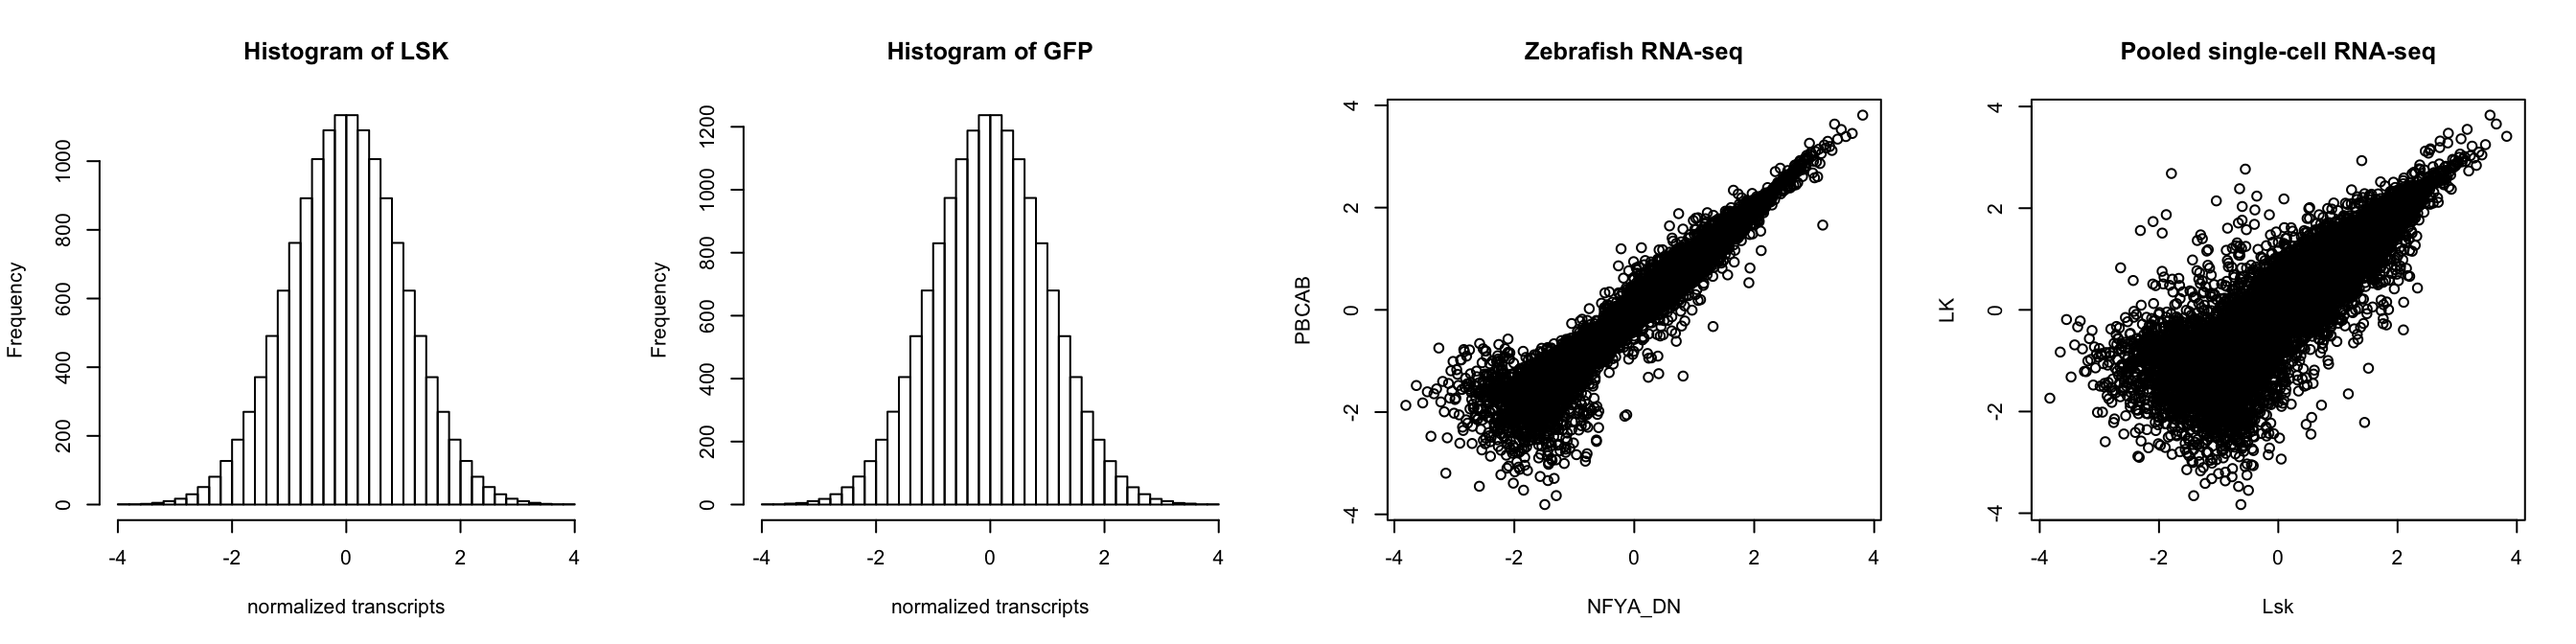
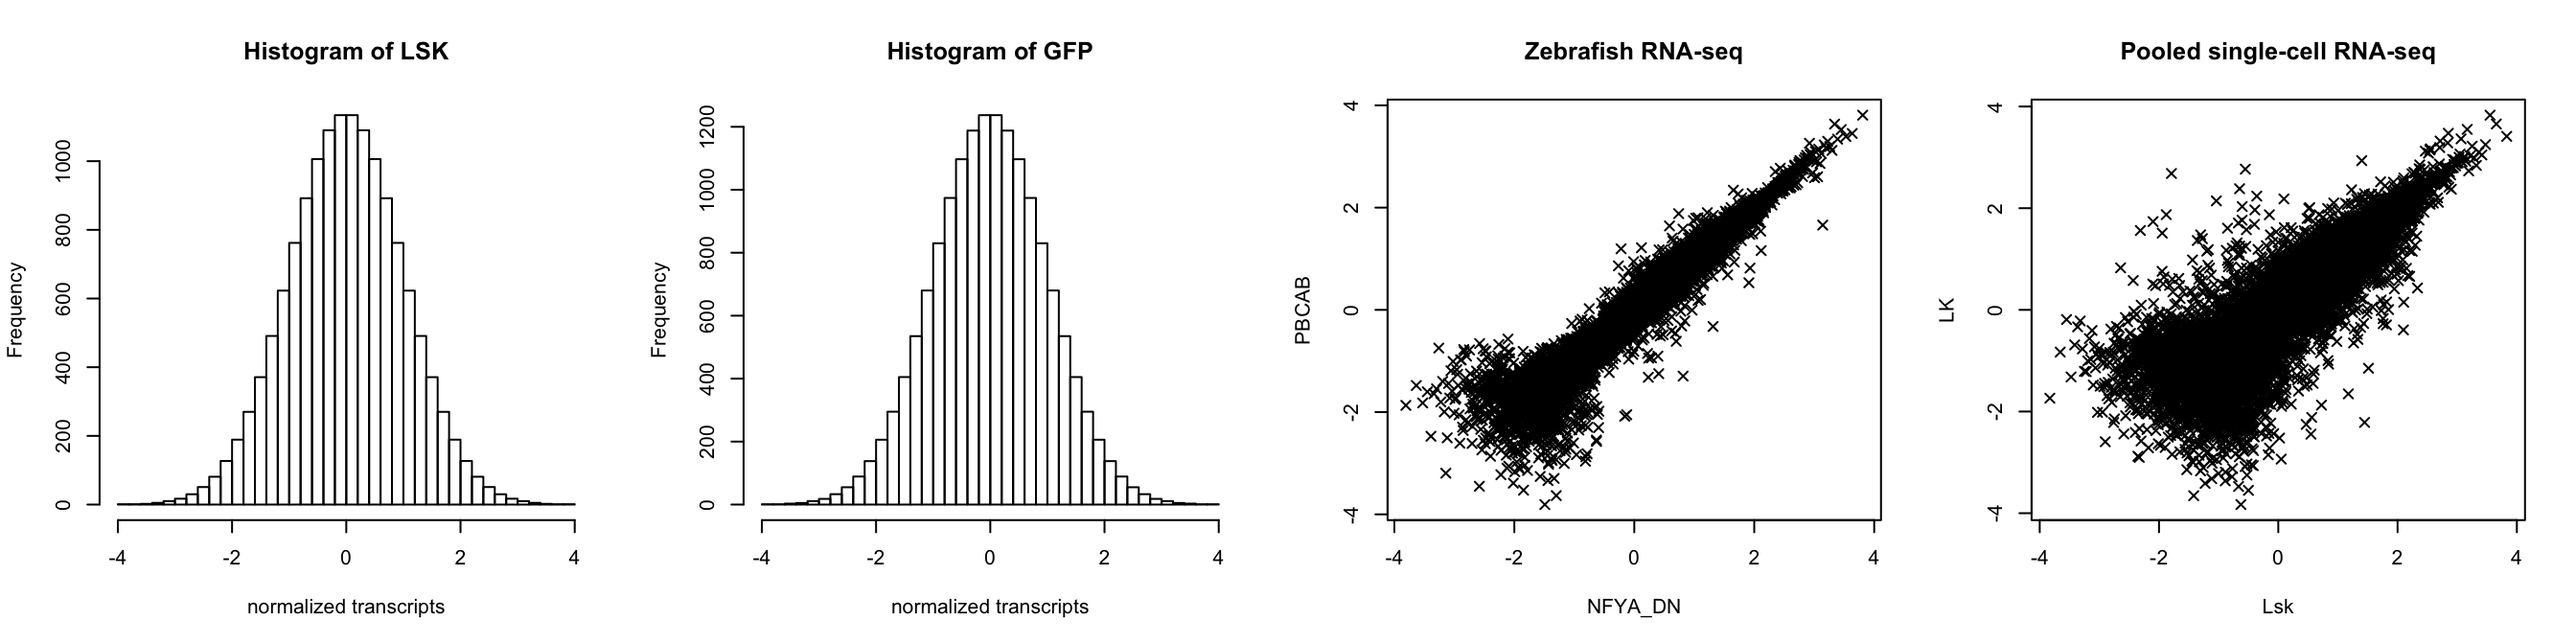
fix plots on preprocessing slide

diff --git a/docs/preprocessing.html b/docs/preprocessing.html
@@ -406,7 +406,7 @@ $(document).ready(function () {
 <div class="tab-content">
 <div id="summary" class="tab-pane fade in active">
 <p>
-<strong>Last updated:</strong> 2020-05-02
+<strong>Last updated:</strong> 2020-05-03
 </p>
 <p>
 <strong>Checks:</strong> <span class="glyphicon glyphicon-ok text-success" aria-hidden="true"></span> 4 <span class="glyphicon glyphicon-exclamation-sign text-danger" aria-hidden="true"></span> 3
@@ -506,16 +506,16 @@ unnamed-chunk-11
 <div class="panel panel-default">
 <div class="panel-heading">
 <p class="panel-title">
-<a data-toggle="collapse" data-parent="#workflowr-checks" href="#strongRepositoryversionstrongahrefhttpsgithubcomhillarykochclimbpagetreee4e50bd43dbfdd59b49c561e781b414560154494targetblanke4e50bda"> <span class="glyphicon glyphicon-ok text-success" aria-hidden="true"></span> <strong>Repository version:</strong> <a href="https://github.com/hillarykoch/climb_page/tree/e4e50bd43dbfdd59b49c561e781b414560154494" target="_blank">e4e50bd</a> </a>
+<a data-toggle="collapse" data-parent="#workflowr-checks" href="#strongRepositoryversionstrongahrefhttpsgithubcomhillarykochclimbpagetree41ecdb67ed5cfe173b5a641f89d3749ce80e3fbbtargetblank41ecdb6a"> <span class="glyphicon glyphicon-ok text-success" aria-hidden="true"></span> <strong>Repository version:</strong> <a href="https://github.com/hillarykoch/climb_page/tree/41ecdb67ed5cfe173b5a641f89d3749ce80e3fbb" target="_blank">41ecdb6</a> </a>
 </p>
 </div>
[2 lines of base64/hex data omitted]
 <div class="panel-body">
 <p>
 Great! You are using Git for version control. Tracking code development and connecting the code version to the results is critical for reproducibility.
 </p>
 <p>
-The results in this page were generated with repository version <a href="https://github.com/hillarykoch/climb_page/tree/e4e50bd43dbfdd59b49c561e781b414560154494" target="_blank">e4e50bd</a>. See the <em>Past versions</em> tab to see a history of the changes made to the R Markdown and HTML files.
+The results in this page were generated with repository version <a href="https://github.com/hillarykoch/climb_page/tree/41ecdb67ed5cfe173b5a641f89d3749ce80e3fbb" target="_blank">41ecdb6</a>. See the <em>Past versions</em> tab to see a history of the changes made to the R Markdown and HTML files.
 </p>
 <p>
 Note that you need to be careful to ensure that all relevant files for the analysis have been committed to Git prior to generating the results (you can use <code>wflow_publish</code> or <code>wflow_git_commit</code>). workflowr only checks the R Markdown file, but you know if there are other scripts or data files that it depends on. Below is the status of the Git repository when the results were generated:
@@ -532,9 +532,6 @@ Ignored files:
     Ignored:    analysis/running_mcmc_cache/
     Ignored:    data/.DS_Store
     Ignored:    output/.DS_Store
-
-Untracked files:
-    Untracked:  data/tpm_zebrafish.tsv.gz
 
 Unstaged changes:
     Modified:   analysis/preprocessing.Rmd
@@ -576,6 +573,40 @@ Message
 </tr>
 </thead>
 <tbody>
+<tr>
+<td>
+Rmd
+</td>
+<td>
+<a href="https://github.com/hillarykoch/climb_page/blob/41ecdb67ed5cfe173b5a641f89d3749ce80e3fbb/analysis/preprocessing.Rmd" target="_blank">41ecdb6</a>
+</td>
+<td>
+hillarykoch
+</td>
+<td>
+2020-05-02
+</td>
+<td>
+update preprocessing with quantile transformation for RNA-seq
+</td>
+</tr>
+<tr>
+<td>
+html
+</td>
+<td>
+<a href="https://rawcdn.githack.com/hillarykoch/climb_page/41ecdb67ed5cfe173b5a641f89d3749ce80e3fbb/docs/preprocessing.html" target="_blank">41ecdb6</a>
+</td>
+<td>
+hillarykoch
+</td>
+<td>
+2020-05-02
+</td>
+<td>
+update preprocessing with quantile transformation for RNA-seq
+</td>
+</tr>
 <tr>
 <td>
 Rmd
@@ -779,6 +810,17 @@ Date
 <tbody>
 <tr>
 <td>
+<a href="https://github.com/hillarykoch/climb_page/blob/41ecdb67ed5cfe173b5a641f89d3749ce80e3fbb/docs/figure/preprocessing.Rmd/unnamed-chunk-3-1.png" target="_blank">41ecdb6</a>
+</td>
+<td>
+hillarykoch
+</td>
+<td>
+2020-05-02
+</td>
+</tr>
+<tr>
+<td>
 <a href="https://github.com/hillarykoch/climb_page/blob/828e725ac9ae66949f0c7821028faa80ae0242c5/docs/figure/preprocessing.Rmd/unnamed-chunk-3-1.png" target="_blank">828e725</a>
 </td>
 <td>
@@ -872,6 +914,43 @@ z &lt;-<span class="st"> </span>ql_dat -<span class="st"> </span>estimated_mode
 <span class="co"># Make a quick histogram of normalized expression from one condition</span>
 <span class="kw">hist</span>(z[,<span class="dv">1</span>], <span class="dt">breaks =</span> <span class="dv">30</span>, <span class="dt">xlab =</span> <span class="st">&quot;normalized transcripts&quot;</span>, <span class="dt">main =</span> <span class="st">&quot;Histogram of GFP&quot;</span>)</code></pre></div>
 <p><img src="figure/preprocessing.Rmd/unnamed-chunk-5-1.png" width="384" style="display: block; margin: auto;" /></p>
+<p>
+<button type="button" class="btn btn-default btn-xs btn-workflowr btn-workflowr-fig" data-toggle="collapse" data-target="#fig-unnamed-chunk-5-1">
+Past versions of unnamed-chunk-5-1.png
+</button>
+</p>
+<div id="fig-unnamed-chunk-5-1" class="collapse">
+<div class="table-responsive">
+<table class="table table-condensed table-hover">
+<thead>
+<tr>
+<th>
+Version
+</th>
+<th>
+Author
+</th>
+<th>
+Date
+</th>
+</tr>
+</thead>
+<tbody>
+<tr>
+<td>
+<a href="https://github.com/hillarykoch/climb_page/blob/41ecdb67ed5cfe173b5a641f89d3749ce80e3fbb/docs/figure/preprocessing.Rmd/unnamed-chunk-5-1.png" target="_blank">41ecdb6</a>
+</td>
+<td>
+hillarykoch
+</td>
+<td>
+2020-05-02
+</td>
+</tr>
+</tbody>
+</table>
+</div>
+</div>
 <p>As with the ChIP-seq, we filter out genes which are removed from the analysis, so that we know which genes we examined.</p>
 <p>While this data pre-processing strategy was suitable for the analyses in the CLIMB manuscript, it may not always be suitable for all RNA-seq. Here, we demonstrate another variation on this data pre-processing strategy. Here, we will pool single-cell experiments of hematopoietic progenitor cells, take from Olsson et al. 2016 (accession code GSE70245).</p>
 <p>After reading in the data, we see that there are 382 cells in total in the experiment, coming from 4 unique cell populations.</p>
@@ -964,6 +1043,17 @@ Date
 <tbody>
 <tr>
 <td>
+<a href="https://github.com/hillarykoch/climb_page/blob/41ecdb67ed5cfe173b5a641f89d3749ce80e3fbb/docs/figure/preprocessing.Rmd/unnamed-chunk-8-1.png" target="_blank">41ecdb6</a>
+</td>
+<td>
+hillarykoch
+</td>
+<td>
+2020-05-02
+</td>
+</tr>
+<tr>
+<td>
 <a href="https://github.com/hillarykoch/climb_page/blob/828e725ac9ae66949f0c7821028faa80ae0242c5/docs/figure/preprocessing.Rmd/unnamed-chunk-8-1.png" target="_blank">828e725</a>
 </td>
 <td>
@@ -1004,6 +1094,43 @@ z &lt;-<span class="st"> </span>ql_dat -<span class="st"> </span>flattening
 <span class="co"># Make a quick histogram and plot of normalized expression from one condition</span>
 <span class="kw">hist</span>(z[,<span class="dv">1</span>], <span class="dt">breaks =</span> <span class="dv">30</span>, <span class="dt">xlab =</span> <span class="st">&quot;normalized transcripts&quot;</span>, <span class="dt">main =</span> <span class="st">&quot;Histogram of LK, after shifting&quot;</span>)</code></pre></div>
 <p><img src="figure/preprocessing.Rmd/unnamed-chunk-9-1.png" width="384" style="display: block; margin: auto;" /></p>
+<p>
+<button type="button" class="btn btn-default btn-xs btn-workflowr btn-workflowr-fig" data-toggle="collapse" data-target="#fig-unnamed-chunk-9-1">
+Past versions of unnamed-chunk-9-1.png
+</button>
+</p>
+<div id="fig-unnamed-chunk-9-1" class="collapse">
+<div class="table-responsive">
+<table class="table table-condensed table-hover">
+<thead>
+<tr>
+<th>
+Version
+</th>
+<th>
+Author
+</th>
+<th>
+Date
+</th>
+</tr>
+</thead>
+<tbody>
+<tr>
+<td>
+<a href="https://github.com/hillarykoch/climb_page/blob/41ecdb67ed5cfe173b5a641f89d3749ce80e3fbb/docs/figure/preprocessing.Rmd/unnamed-chunk-9-1.png" target="_blank">41ecdb6</a>
+</td>
+<td>
+hillarykoch
+</td>
+<td>
+2020-05-02
+</td>
+</tr>
+</tbody>
+</table>
+</div>
+</div>
 <p>This transformation may be more widely applicable to RNA-seq datasets.</p>
 </div>
 <div id="by-quantile-transformation" class="section level4">
@@ -1025,9 +1152,46 @@ sc_z &lt;-<span class="st"> </span><span class="kw">apply</span>(sc_merge_dat, <
 <span class="kw">hist</span>(sc_z[,<span class="dv">1</span>], <span class="dt">breaks =</span> <span class="dv">35</span>, <span class="dt">xlab =</span> <span class="st">&quot;normalized transcripts&quot;</span>, <span class="dt">main =</span> <span class="st">&quot;Histogram of GFP&quot;</span>)
 
 <span class="co"># But the joint distributions look like mixtures</span>
-<span class="kw">plot</span>(z[,<span class="kw">c</span>(<span class="dv">2</span>,<span class="dv">3</span>)], <span class="dt">xlab =</span> <span class="kw">colnames</span>(z)[<span class="dv">2</span>], <span class="dt">ylab =</span> <span class="kw">colnames</span>(z)[<span class="dv">3</span>], <span class="dt">main =</span> <span class="st">&quot;Zebrafish RNA-seq&quot;</span>)
-<span class="kw">plot</span>(sc_z[,<span class="kw">c</span>(<span class="dv">1</span>,<span class="dv">4</span>)], <span class="dt">xlab =</span> <span class="kw">colnames</span>(sc_z)[<span class="dv">1</span>], <span class="dt">ylab =</span> <span class="kw">colnames</span>(sc_z)[<span class="dv">4</span>], <span class="dt">main =</span> <span class="st">&quot;Pooled single-cell RNA-seq&quot;</span>)</code></pre></div>
+<span class="kw">plot</span>(z[,<span class="kw">c</span>(<span class="dv">2</span>,<span class="dv">3</span>)], <span class="dt">xlab =</span> <span class="kw">colnames</span>(z)[<span class="dv">2</span>], <span class="dt">ylab =</span> <span class="kw">colnames</span>(z)[<span class="dv">3</span>], <span class="dt">main =</span> <span class="st">&quot;Zebrafish RNA-seq&quot;</span>, <span class="dt">pch =</span> <span class="dv">4</span>)
+<span class="kw">plot</span>(sc_z[,<span class="kw">c</span>(<span class="dv">1</span>,<span class="dv">4</span>)], <span class="dt">xlab =</span> <span class="kw">colnames</span>(sc_z)[<span class="dv">1</span>], <span class="dt">ylab =</span> <span class="kw">colnames</span>(sc_z)[<span class="dv">4</span>], <span class="dt">main =</span> <span class="st">&quot;Pooled single-cell RNA-seq&quot;</span>, <span class="dt">pch =</span> <span class="dv">4</span>)</code></pre></div>
 <p><img src="figure/preprocessing.Rmd/unnamed-chunk-10-1.png" width="1344" style="display: block; margin: auto;" /></p>
+<p>
+<button type="button" class="btn btn-default btn-xs btn-workflowr btn-workflowr-fig" data-toggle="collapse" data-target="#fig-unnamed-chunk-10-1">
+Past versions of unnamed-chunk-10-1.png
+</button>
+</p>
+<div id="fig-unnamed-chunk-10-1" class="collapse">
+<div class="table-responsive">
+<table class="table table-condensed table-hover">
+<thead>
+<tr>
+<th>
+Version
+</th>
+<th>
+Author
+</th>
+<th>
+Date
+</th>
+</tr>
+</thead>
+<tbody>
+<tr>
+<td>
+<a href="https://github.com/hillarykoch/climb_page/blob/41ecdb67ed5cfe173b5a641f89d3749ce80e3fbb/docs/figure/preprocessing.Rmd/unnamed-chunk-10-1.png" target="_blank">41ecdb6</a>
+</td>
+<td>
+hillarykoch
+</td>
+<td>
+2020-05-02
+</td>
+</tr>
+</tbody>
+</table>
+</div>
+</div>
 <p>Using the normalized ranks and standard normal quantile transformation may cause a sort of “compressing” of the data. This is because ranking the data obscured distances between various clusters in the mixture. Then, when applying the typical pairwise fitting step, the cluster estimation may be sub-optimal. To resolve this, we suggest placing a lower bound on the absolute value of the class means for dimensions associated with some signal (i.e., -1 or 1), while allowing more flexibility in the estimation of the positive and negative means. It is important to note that such constraints only exist in the pairwise fitting step, and no longer pose any issue downstream.</p>
 <p>Here, we fit a pairwise model to the Zebrafish and pooled single cell datasets. We fit the model under three scenarios:</p>
 <ol style="list-style-type: decimal">
@@ -1035,25 +1199,64 @@ sc_z &lt;-<span class="st"> </span><span class="kw">apply</span>(sc_merge_dat, <
 <li>A model with no lower bound on the magnitude of the class means, but which is more flexible in estimation of positive and negative associations</li>
 <li>A model with a lower bound on the magnitude of the class means, which is also more flexible in estimation of positive and negative associations</li>
 </ol>
-<p>We plot the data colored by their maximum <em>a posterior</em> class labels. We can see that <strong>modeling approach 3</strong> appears the most robust, as approach 1 is not flexible enough, and approach 2 encounters identifiability issues, resulting in an unwanted merging of clusters.</p>
+<p>We plot the data colored by their maximum <em>a posteriori</em> class labels. We can see that <strong>modeling approach 3</strong> appears the most robust, as approach 1 is not flexible enough, and approach 2 encounters identifiability issues, resulting in an unwanted merging of clusters.</p>
 <div class="sourceCode"><pre class="sourceCode r"><code class="sourceCode r"><span class="kw">par</span>(<span class="dt">mfrow =</span> <span class="kw">c</span>(<span class="dv">2</span>,<span class="dv">3</span>))
 
-fit_no_bound &lt;-<span class="st"> </span>CLIMB::<span class="kw">get_pairwise_fits</span>(z[,<span class="kw">c</span>(<span class="dv">2</span>,<span class="dv">3</span>)], <span class="dt">nlambda =</span> <span class="dv">1</span>, <span class="dt">parallel =</span> <span class="ot">FALSE</span>, <span class="dt">bound =</span> <span class="dv">0</span>)
-fit_no_bound_flex &lt;-<span class="st"> </span>CLIMB::<span class="kw">get_pairwise_fits</span>(z[,<span class="kw">c</span>(<span class="dv">2</span>,<span class="dv">3</span>)], <span class="dt">nlambda =</span> <span class="dv">1</span>, <span class="dt">parallel =</span> <span class="ot">FALSE</span>, <span class="dt">bound =</span> <span class="dv">0</span>, <span class="dt">flex_mu =</span> <span class="ot">TRUE</span>)
-fit_bound_flex &lt;-<span class="st"> </span>CLIMB::<span class="kw">get_pairwise_fits</span>(z[,<span class="kw">c</span>(<span class="dv">2</span>,<span class="dv">3</span>)], <span class="dt">nlambda =</span> <span class="dv">1</span>, <span class="dt">parallel =</span> <span class="ot">FALSE</span>, <span class="dt">bound =</span> <span class="kw">qnorm</span>(.<span class="dv">8</span>), <span class="dt">flex_mu =</span> <span class="ot">TRUE</span>)
+pal &lt;-<span class="st"> </span>CLIMB::<span class="kw">get_pals</span>(<span class="dv">1</span>)
 
-sc_fit_no_bound &lt;-<span class="st"> </span>CLIMB::<span class="kw">get_pairwise_fits</span>(sc_z[,<span class="kw">c</span>(<span class="dv">1</span>,<span class="dv">4</span>)], <span class="dt">nlambda =</span> <span class="dv">1</span>, <span class="dt">parallel =</span> <span class="ot">FALSE</span>, <span class="dt">bound =</span> <span class="dv">0</span>)
-sc_fit_no_bound_flex &lt;-<span class="st"> </span>CLIMB::<span class="kw">get_pairwise_fits</span>(sc_z[,<span class="kw">c</span>(<span class="dv">1</span>,<span class="dv">4</span>)], <span class="dt">nlambda =</span> <span class="dv">1</span>, <span class="dt">parallel =</span> <span class="ot">FALSE</span>, <span class="dt">bound =</span> <span class="dv">0</span>, <span class="dt">flex_mu =</span> <span class="ot">TRUE</span>)
-sc_fit_bound_flex &lt;-<span class="st"> </span>CLIMB::<span class="kw">get_pairwise_fits</span>(sc_z[,<span class="kw">c</span>(<span class="dv">1</span>,<span class="dv">4</span>)], <span class="dt">nlambda =</span> <span class="dv">1</span>, <span class="dt">parallel =</span> <span class="ot">FALSE</span>, <span class="dt">bound =</span> <span class="kw">qnorm</span>(.<span class="dv">8</span>), <span class="dt">flex_mu =</span> <span class="ot">TRUE</span>)
+fit_no_bound &lt;-<span class="st"> </span>CLIMB::<span class="kw">get_pairwise_fits</span>(z[,<span class="kw">c</span>(<span class="dv">2</span>,<span class="dv">3</span>)], <span class="dt">nlambda =</span> <span class="dv">3</span>, <span class="dt">parallel =</span> <span class="ot">FALSE</span>, <span class="dt">bound =</span> <span class="dv">0</span>)
+fit_no_bound_flex &lt;-<span class="st"> </span>CLIMB::<span class="kw">get_pairwise_fits</span>(z[,<span class="kw">c</span>(<span class="dv">2</span>,<span class="dv">3</span>)], <span class="dt">nlambda =</span> <span class="dv">3</span>, <span class="dt">parallel =</span> <span class="ot">FALSE</span>, <span class="dt">bound =</span> <span class="dv">0</span>, <span class="dt">flex_mu =</span> <span class="ot">TRUE</span>)
+fit_bound_flex &lt;-<span class="st"> </span>CLIMB::<span class="kw">get_pairwise_fits</span>(z[,<span class="kw">c</span>(<span class="dv">2</span>,<span class="dv">3</span>)], <span class="dt">nlambda =</span> <span class="dv">3</span>, <span class="dt">parallel =</span> <span class="ot">FALSE</span>, <span class="dt">bound =</span> <span class="kw">qnorm</span>(.<span class="dv">8</span>), <span class="dt">flex_mu =</span> <span class="ot">TRUE</span>)
 
-<span class="kw">plot</span>(z[,<span class="kw">c</span>(<span class="dv">2</span>,<span class="dv">3</span>)], <span class="dt">col =</span> fit_no_bound[[<span class="dv">1</span>]]$cluster, <span class="dt">main =</span> <span class="st">&quot;Approach 1&quot;</span>)
-<span class="kw">plot</span>(z[,<span class="kw">c</span>(<span class="dv">2</span>,<span class="dv">3</span>)], <span class="dt">col =</span> fit_no_bound_flex[[<span class="dv">1</span>]]$cluster, <span class="dt">main =</span> <span class="st">&quot;Approach 2&quot;</span>)
-<span class="kw">plot</span>(z[,<span class="kw">c</span>(<span class="dv">2</span>,<span class="dv">3</span>)], <span class="dt">col =</span> fit_bound_flex[[<span class="dv">1</span>]]$cluster, <span class="dt">main =</span> <span class="st">&quot;Approach 3&quot;</span>)
+sc_fit_no_bound &lt;-<span class="st"> </span>CLIMB::<span class="kw">get_pairwise_fits</span>(sc_z[,<span class="kw">c</span>(<span class="dv">1</span>,<span class="dv">4</span>)], <span class="dt">nlambda =</span> <span class="dv">3</span>, <span class="dt">parallel =</span> <span class="ot">FALSE</span>, <span class="dt">bound =</span> <span class="dv">0</span>)
+sc_fit_no_bound_flex &lt;-<span class="st"> </span>CLIMB::<span class="kw">get_pairwise_fits</span>(sc_z[,<span class="kw">c</span>(<span class="dv">1</span>,<span class="dv">4</span>)], <span class="dt">nlambda =</span> <span class="dv">3</span>, <span class="dt">parallel =</span> <span class="ot">FALSE</span>, <span class="dt">bound =</span> <span class="dv">0</span>, <span class="dt">flex_mu =</span> <span class="ot">TRUE</span>)
+sc_fit_bound_flex &lt;-<span class="st"> </span>CLIMB::<span class="kw">get_pairwise_fits</span>(sc_z[,<span class="kw">c</span>(<span class="dv">1</span>,<span class="dv">4</span>)], <span class="dt">nlambda =</span> <span class="dv">3</span>, <span class="dt">parallel =</span> <span class="ot">FALSE</span>, <span class="dt">bound =</span> <span class="kw">qnorm</span>(.<span class="dv">8</span>), <span class="dt">flex_mu =</span> <span class="ot">TRUE</span>)
 
-<span class="kw">plot</span>(sc_z[,<span class="kw">c</span>(<span class="dv">1</span>,<span class="dv">4</span>)], <span class="dt">col =</span> sc_fit_no_bound[[<span class="dv">1</span>]]$cluster, <span class="dt">main =</span> <span class="st">&quot;Approach 1&quot;</span>)
-<span class="kw">plot</span>(sc_z[,<span class="kw">c</span>(<span class="dv">1</span>,<span class="dv">4</span>)], <span class="dt">col =</span> sc_fit_no_bound_flex[[<span class="dv">1</span>]]$cluster, <span class="dt">main =</span> <span class="st">&quot;Approach 2&quot;</span>)
-<span class="kw">plot</span>(sc_z[,<span class="kw">c</span>(<span class="dv">1</span>,<span class="dv">4</span>)], <span class="dt">col =</span> sc_fit_bound_flex[[<span class="dv">1</span>]]$cluster, <span class="dt">main =</span> <span class="st">&quot;Approach 3&quot;</span>)</code></pre></div>
+<span class="kw">plot</span>(z[,<span class="kw">c</span>(<span class="dv">2</span>,<span class="dv">3</span>)], <span class="dt">col =</span> pal[fit_no_bound[[<span class="dv">1</span>]]$cluster], <span class="dt">main =</span> <span class="st">&quot;Approach 1&quot;</span>, <span class="dt">pch =</span> <span class="dv">4</span>)
+<span class="kw">plot</span>(z[,<span class="kw">c</span>(<span class="dv">2</span>,<span class="dv">3</span>)], <span class="dt">col =</span> pal[fit_no_bound_flex[[<span class="dv">1</span>]]$cluster], <span class="dt">main =</span> <span class="st">&quot;Approach 2&quot;</span>, <span class="dt">pch =</span> <span class="dv">4</span>)
+<span class="kw">plot</span>(z[,<span class="kw">c</span>(<span class="dv">2</span>,<span class="dv">3</span>)], <span class="dt">col =</span> pal[fit_bound_flex[[<span class="dv">1</span>]]$cluster], <span class="dt">main =</span> <span class="st">&quot;Approach 3&quot;</span>, <span class="dt">pch =</span> <span class="dv">4</span>)
+
+<span class="kw">plot</span>(sc_z[,<span class="kw">c</span>(<span class="dv">1</span>,<span class="dv">4</span>)], <span class="dt">col =</span> pal[sc_fit_no_bound[[<span class="dv">1</span>]]$cluster], <span class="dt">main =</span> <span class="st">&quot;Approach 1&quot;</span>, <span class="dt">pch =</span> <span class="dv">4</span>)
+<span class="kw">plot</span>(sc_z[,<span class="kw">c</span>(<span class="dv">1</span>,<span class="dv">4</span>)], <span class="dt">col =</span> pal[sc_fit_no_bound_flex[[<span class="dv">1</span>]]$cluster], <span class="dt">main =</span> <span class="st">&quot;Approach 2&quot;</span>, <span class="dt">pch =</span> <span class="dv">4</span>)
+<span class="kw">plot</span>(sc_z[,<span class="kw">c</span>(<span class="dv">1</span>,<span class="dv">4</span>)], <span class="dt">col =</span> pal[sc_fit_bound_flex[[<span class="dv">1</span>]]$cluster], <span class="dt">main =</span> <span class="st">&quot;Approach 3&quot;</span>, <span class="dt">pch =</span> <span class="dv">4</span>)</code></pre></div>
 <p><img src="figure/preprocessing.Rmd/unnamed-chunk-11-1.png" width="1008" style="display: block; margin: auto;" /></p>
+<p>
+<button type="button" class="btn btn-default btn-xs btn-workflowr btn-workflowr-fig" data-toggle="collapse" data-target="#fig-unnamed-chunk-11-1">
+Past versions of unnamed-chunk-11-1.png
+</button>
+</p>
+<div id="fig-unnamed-chunk-11-1" class="collapse">
+<div class="table-responsive">
+<table class="table table-condensed table-hover">
+<thead>
+<tr>
+<th>
+Version
+</th>
+<th>
+Author
+</th>
+<th>
+Date
+</th>
+</tr>
+</thead>
+<tbody>
+<tr>
+<td>
+<a href="https://github.com/hillarykoch/climb_page/blob/41ecdb67ed5cfe173b5a641f89d3749ce80e3fbb/docs/figure/preprocessing.Rmd/unnamed-chunk-11-1.png" target="_blank">41ecdb6</a>
+</td>
+<td>
+hillarykoch
+</td>
+<td>
+2020-05-02
+</td>
+</tr>
+</tbody>
+</table>
+</div>
+</div>
 </div>
 </div>
 
